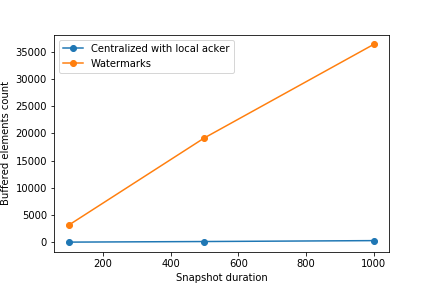
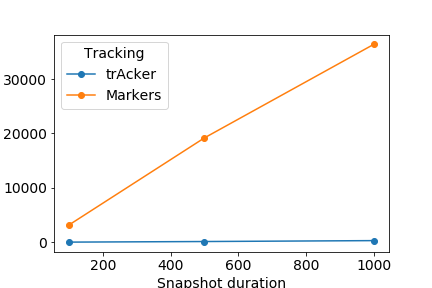
https://github.com/flame-stream/Papers/issues/11

diff --git a/2019/acker/fs-acker-experiments.tex b/2019/acker/fs-acker-experiments.tex
@@ -1,13 +1,13 @@
 \label {fs-acker-experiments}
 
-We have tested the \tracker\ performance on a simple directed path graph of various length, which was shuffling processed elements between machines in each vertex. The \tracker\ of various configurations was compared with  tracking using watermarks and no tracking at all. Elements were tracked in windows of 1, 10 and 100.
+We have tested the \tracker\ performance on a simple directed path graph of various length, which was shuffling processed elements between machines in each vertex. The \tracker\ of various configurations was compared with tracking using markers and no tracking at all. Elements were tracked in windows of 1, 10 and 100.
 Virtual machines used in experiments had single CPUs and 4 GB of RAM per machine. One machine called a Bench Stand was used to input data into the dataflow at a fixed rate while measuring the speed of it being processed via receiving output and notifications for data being processed. \tracker\ was running on machines excluded from the dataflow: a single one for centralized configuration and two for distributed configuration.
 
 \subsection{Network traffic}
 
-Network traffic was measured in number of separate service messages sent over the network. Local Acker was sending messages in batches.
+Network traffic was measured in number of separate service messages sent over the network. Local \tracker\ was sending messages in batches.
 
-% ]https://gist.github.com/faucct/032aaf6240db361d30a184b1d7bf3c8e
+% https://gist.github.com/faucct/032aaf6240db361d30a184b1d7bf3c8e
 \begin{figure*}[t!]
     \begin{subfigure}[b]{0.32\textwidth}
             \includegraphics[width=0.99\textwidth]{pics/traffic_by_graph_size.png}
@@ -16,55 +16,42 @@ Network traffic was measured in number of separate service messages sent over th
     \hspace{5mm}
     \begin{subfigure}[b]{0.32\textwidth}
             \includegraphics[width=0.99\textwidth]{pics/traffic_by_number_of_machines.png}
-            \caption{Traffic by number of machines}
+            \caption{Traffic by number of virtual machines}
     \end{subfigure}
     \hspace{5mm}
     \begin{subfigure}[b]{0.32\textwidth}
             \includegraphics[width=0.99\textwidth]{pics/traffic_by_tracking_frequency.png}
             \caption{Traffic by tracking frequency}
 	\end{subfigure}
-    \caption{Results of preliminary experiments}
+    \caption{Service traffic of various trackings}
 \end{figure*}
-% \begin{figure}[htbp]
-%   \centering
-%   \includegraphics[width=0.50\textwidth]{pics/traffic_by_graph_size.png}
-%   \caption{Traffic by graph size}
-% \end{figure}
-% \begin{figure}[htbp]
-%   \centering
-%   \includegraphics[width=0.50\textwidth]{pics/traffic_by_number_of_machines.png}
-%   \caption{Traffic by number of machines}
-% \end{figure}
-% \begin{figure}[htbp]
-%   \centering
-%   \includegraphics[width=0.50\textwidth]{pics/traffic_by_tracking_frequency.png}
-%   \caption{Traffic by tracking frequency}
-% \end{figure}
 
 \subsection{Notification latency}
 
 Notification latency was measured as a time between moments of Bench Stand receiving last elements in tracking windows and notifications for that window.
 
 % https://gist.github.com/faucct/032aaf6240db361d30a184b1d7bf3c8e
-\begin{figure}[htbp]
-  \centering
-  \includegraphics[width=0.50\textwidth]{pics/notification_await_time_by_graph_size.png}
-  \caption{Notification await time by graph size}
-\end{figure}
-\begin{figure}[htbp]
-  \centering
-  \includegraphics[width=0.50\textwidth]{pics/notification_await_time_by_number_of_machines.png}
-  \caption{Notification await time by number of machines}
-\end{figure}
-\begin{figure}[htbp]
-  \centering
-  \includegraphics[width=0.50\textwidth]{pics/notification_await_time_by_tracking_frequency.png}
-  \caption{Notification await time by tracking frequency}
-\end{figure}
+\begin{figure*}[t!]
+    \begin{subfigure}[b]{0.32\textwidth}
+            \includegraphics[width=0.99\textwidth]{pics/notification_await_time_by_graph_size.png}
+            \caption{Notification latency by graph size}
+    \end{subfigure}
+    \hspace{5mm}
+    \begin{subfigure}[b]{0.32\textwidth}
+            \includegraphics[width=0.99\textwidth]{pics/notification_await_time_by_number_of_machines.png}
+            \caption{Notification latency by number of virtual machines}
+    \end{subfigure}
+    \hspace{5mm}
+    \begin{subfigure}[b]{0.32\textwidth}
+            \includegraphics[width=0.99\textwidth]{pics/notification_await_time_by_tracking_frequency.png}
+            \caption{Notification latency by tracking frequency}
+	\end{subfigure}
+    \caption{Notification latency of various trackings}
+\end{figure*}
 
 \subsection{Scalability}
 
-In those experiments we are reproducing a case in which the centralized \tracker\ was not holding the load, while the distributed \tracker\ was working. While using 100 machines running our dataflow we have failed to reproduce it. Still, we have been able to simulate it by increasing the total number of Ack messages.
+In those experiments we are reproducing a case in which the centralized \tracker\ was not holding the load, while the distributed \tracker\ was working. We have failed to reproduce it while using 100 machines running our dataflow. Still, we have been able to simulate it by increasing the total number of Ack messages.
 
 % https://gist.github.com/faucct/546f5617b958349a125449926373b780
 \begin{figure}[htbp]
@@ -90,7 +77,7 @@ In those experiments we are reproducing a case in which the centralized \tracker
 
 \subsection{Overhead on throughput}
 
-In those experiments we show that tracking with \tracker\ in contrary to watermarks does not have a large overhead on throughput.
+In those experiments we compare maximum throughput of system without tracking to systems with various trackings. \tracker's overhead on maximum throughput is not substantial and does not depend on tracking window frequency. Overhead of tracking with markers is huge when tracking every element.
 
 \begin{figure}[htbp]
   \centering
@@ -100,7 +87,7 @@ In those experiments we show that tracking with \tracker\ in contrary to waterma
 
 \subsection{State snapshotting}
 
-In those experiments we are comparing granular tracking using centralized \tracker\ and watermarks. Processed elements are divided into snapshot windows. Pipeline vertices only process elements from a current snapshot window and buffer ones from a next snapshot window until they receive a notification that all elements from a current snapshot have been processed. When this happens vertices imitate snapshotting with a fixed duration sleep and continue to process elements from next snapshot window. We have measured a number of buffered elements and total time they have spent in buffer varying the snapshot duration.
+In those experiments we are comparing granular tracking using \tracker\ and markers. Processed elements are divided into snapshot windows. Pipeline vertices only process elements from a current snapshot window and buffer ones from a next snapshot window until they receive a notification that all elements from a current snapshot have been processed. When this happens vertices imitate snapshotting with a fixed duration sleep and continue to process elements from next snapshot window. We have measured a number of buffered elements and total time they have spent in buffer varying the snapshot duration.
 
 % https://gist.github.com/faucct/6097d9d08197cb979b71721b16f8b6a3/
 \begin{figure}[htbp]
@@ -126,7 +113,7 @@ In those experiments we are comparing granular tracking using centralized \track
 \begin{figure}[htbp]
   \centering
   \includegraphics[width=0.50\textwidth]{pics/buffering_latencies_evolution_watermarks.png}
-  \caption{Latencies with Watermarks}
+  \caption{Latencies with markers}
 \end{figure}
 
 \subsection{Count iterations?}
